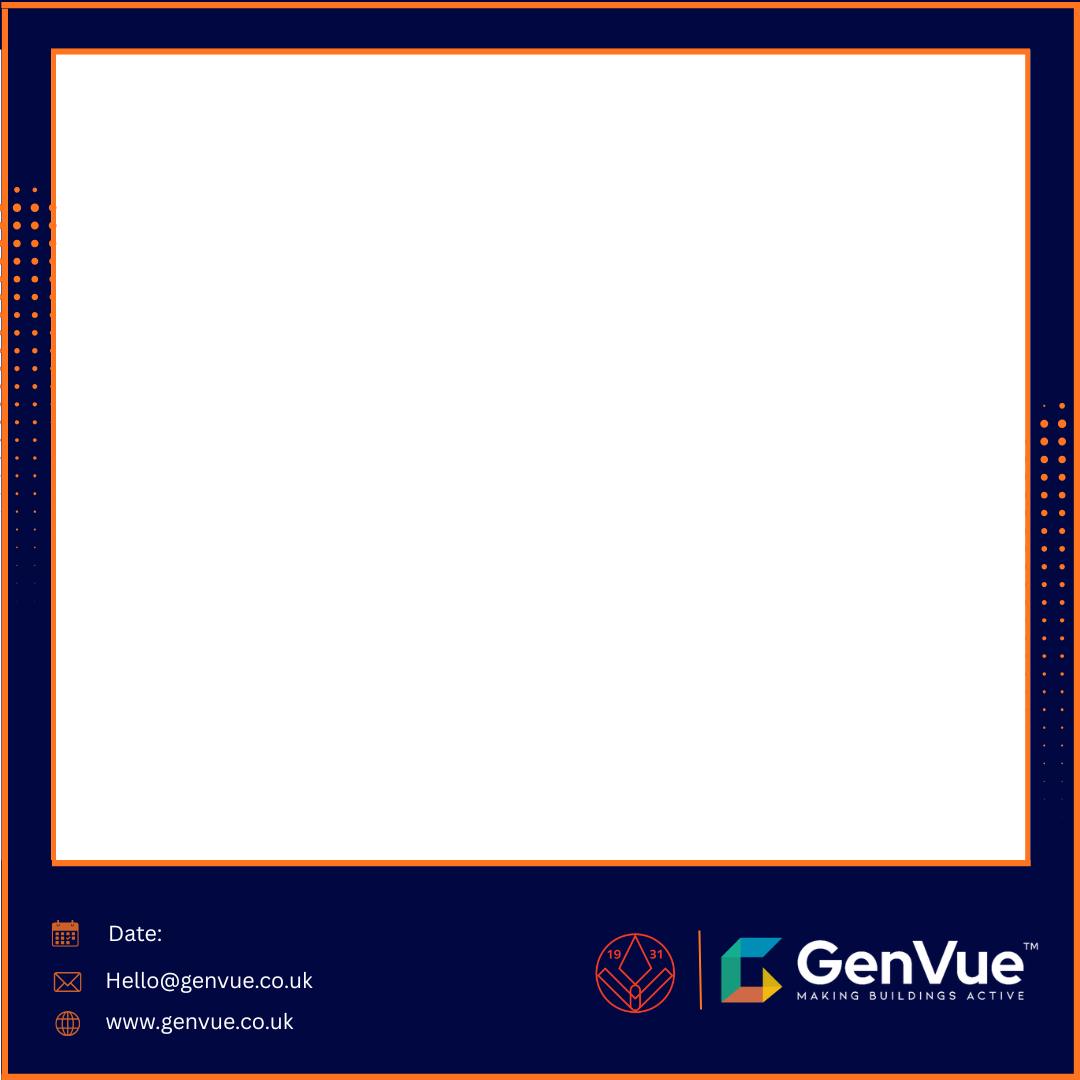
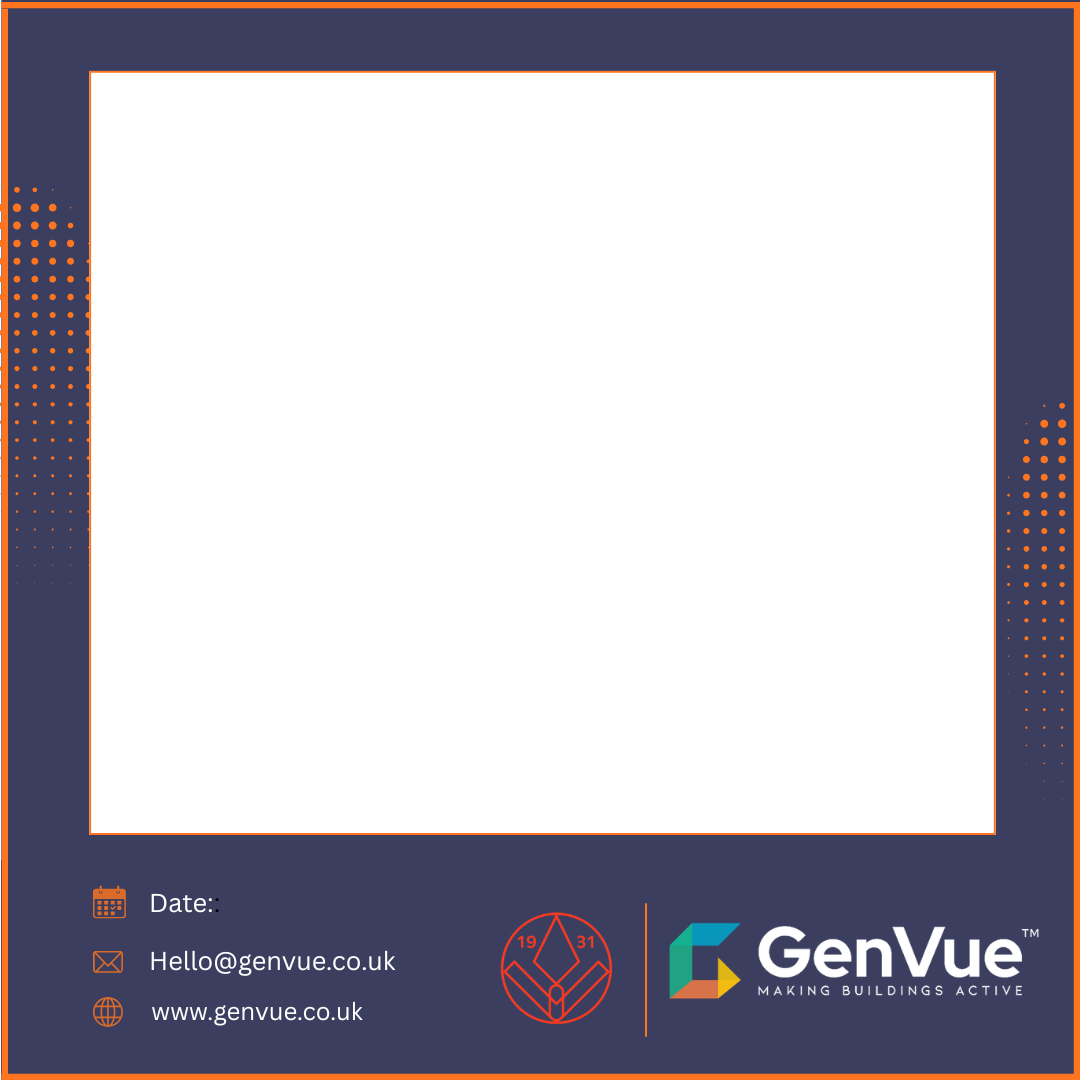
Improve branded export template and artwork scaling

diff --git a/lib/export/composeExportImage.ts b/lib/export/composeExportImage.ts
@@ -6,7 +6,9 @@
 //   • a new high-resolution canvas (default 2160 on the long edge)
 //   • the template drawn as the background (kept 1:1, never distorted)
 //   • the artwork drawn into the large white square (object-fit: contain —
-//     proportional, centred, never stretched)
+//     proportional, centred, never stretched), sized from what was actually
+//     drawn rather than the whole canvas, so a drawing that floats in empty
+//     space still fills the frame
 //   • today's date stamped beside the "Date:" label in the template's typography
 //   • exported as a PNG Blob
 //
@@ -121,6 +123,41 @@ export function detectPlaceholder(template: HTMLImageElement): Rect {
   }
 }
 
+// Smallest rect containing every non-transparent pixel — i.e. what the user
+// actually drew, ignoring the empty canvas around it. Fitting this (rather than
+// the whole canvas) is what lets a small drawing fill the frame's white square.
+// Returns null for a completely empty canvas, in which case the caller falls
+// back to the full canvas. Note that when a background (photo / solid /
+// gradient) is set, every pixel is opaque and this returns the whole canvas —
+// the composition is then identical to a plain contain fit.
+export function detectContentBounds(canvas: HTMLCanvasElement): Rect | null {
+  const w = canvas.width
+  const h = canvas.height
+  if (w <= 0 || h <= 0) return null
+  const ctx = canvas.getContext('2d', { willReadFrequently: true })
+  if (!ctx) return null
+
+  const { data } = ctx.getImageData(0, 0, w, h)
+  let minX = w
+  let minY = h
+  let maxX = -1
+  let maxY = -1
+  for (let y = 0; y < h; y++) {
+    for (let x = 0; x < w; x++) {
+      // Any alpha at all counts, so the soft edges of glow/neon strokes are
+      // included rather than clipped off.
+      if (data[(y * w + x) * 4 + 3] !== 0) {
+        if (x < minX) minX = x
+        if (x > maxX) maxX = x
+        if (y < minY) minY = y
+        if (y > maxY) maxY = y
+      }
+    }
+  }
+  if (maxX < 0) return null // nothing drawn
+  return { x: minX, y: minY, w: maxX - minX + 1, h: maxY - minY + 1 }
+}
+
 // Compose the branded export and return it as a PNG Blob.
 export async function composeExportImage(
   canvas: HTMLCanvasElement,
@@ -160,10 +197,15 @@ export async function composeExportImage(
   const cw = canvas.width
   const ch = canvas.height
   if (cw > 0 && ch > 0) {
-    const fit = Math.min(bw / cw, bh / ch)
-    const dw = cw * fit
-    const dh = ch * fit
-    ctx.drawImage(canvas, bx + (bw - dw) / 2, by + (bh - dh) / 2, dw, dh)
+    // Fit what was drawn, not the blank canvas around it. A contain fit already
+    // maximises size for a given source, so the only way to make the artwork
+    // larger without overflowing the square or cropping is to stop wasting the
+    // box on empty margins.
+    const src = detectContentBounds(canvas) ?? { x: 0, y: 0, w: cw, h: ch }
+    const fit = Math.min(bw / src.w, bh / src.h)
+    const dw = src.w * fit
+    const dh = src.h * fit
+    ctx.drawImage(canvas, src.x, src.y, src.w, src.h, bx + (bw - dw) / 2, by + (bh - dh) / 2, dw, dh)
   }
 
   // 3) Date, beside the "Date:" label, in the existing typography (dark navy).

diff --git a/app/control/page.tsx b/app/control/page.tsx
@@ -25,12 +25,13 @@ const PRESET_COLORS = ['#111827', '#6b7280', '#2563eb', '#10b981', '#ef4444']
 const GRADIENT_ANGLE = 135
 
 // Where the export stamps today's date. In the 1080x1080 frame the "Date:"
-// label occupies x 111..160 with its baseline at y 940, white on the navy
-// footer — so the value sits just after it, in matching white. Fractions keep
-// the placement correct whatever resolution the template is supplied at.
+// label occupies x 152..211 with its baseline at y 911, white on the slate
+// footer — so the value sits just after it, sharing that baseline so the two
+// read as one line. Fractions keep the placement correct whatever resolution
+// the template is supplied at.
 const EXPORT_DATE_LAYOUT = {
-  xFrac: 172 / 1080,
-  yFrac: 940 / 1080,
+  xFrac: 223 / 1080,
+  yFrac: 911 / 1080,
   align: 'left' as const,
   baseline: 'alphabetic' as const,
   color: '#ffffff',